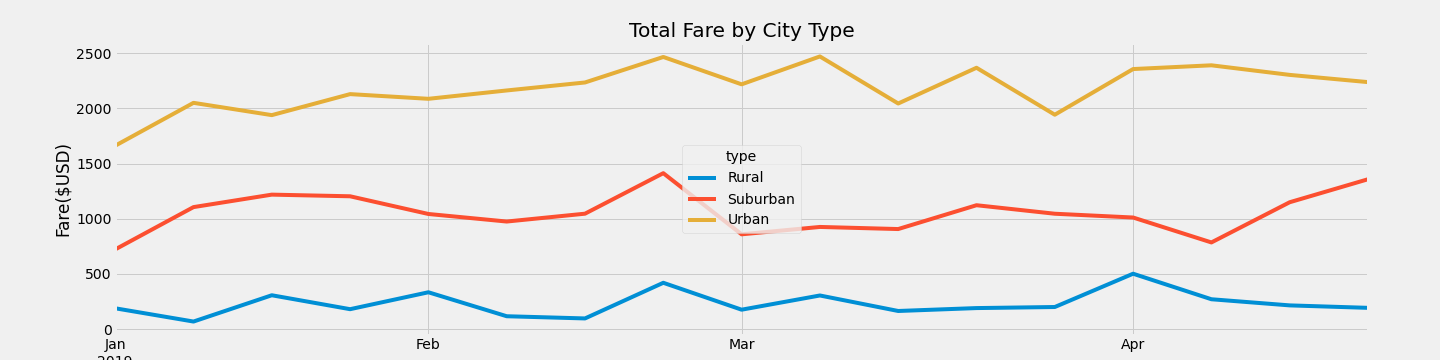
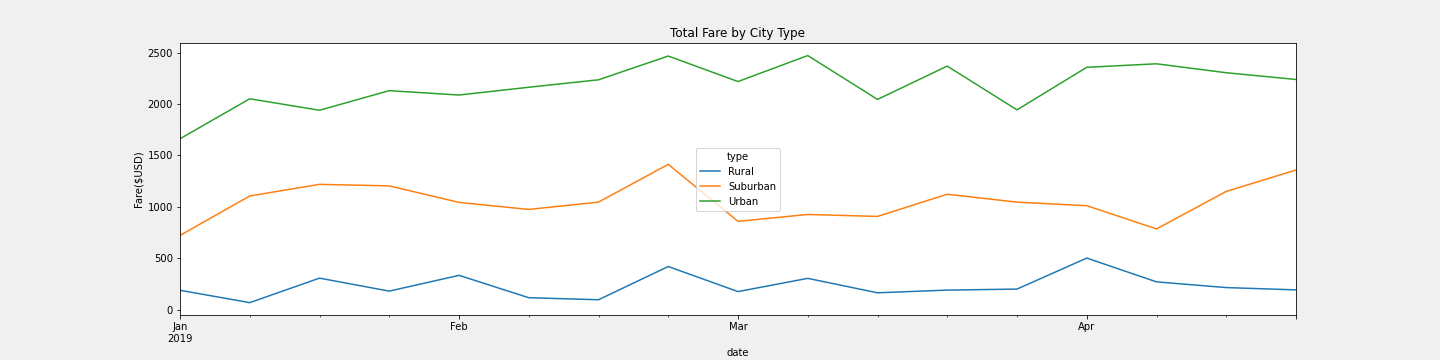
final updates to script and images

diff --git a/PyBer_Writeup.md b/PyBer_Writeup.md
@@ -1,0 +1,22 @@
+# PyBer_Matplotlib_Python - Module 5 - Challenge
+
+## Overview of Project
+
+The PyBer Analysis uses Python, Pandas, and Matplotlib to combine dataframes, perform calculations and analyses, and visualize the results with an all-encompassing line graph. 
+
+### Purpose
+
+Pyber is a ride sharing app with customers and services in Urban, Suburban, and Rural cities. It is our job to combine all this data and summarize it for the company's decision makers. This line graph will show cumulative fares by city type for Jan-Apr 2019.
+
+### Results
+
+The data was captured in two different files, total drivers by city, and individual rides. These files needed to be merged into one dataframe and processed by the groupby function in order to be summarized by city type. Once the data was merged metrics such as total rides, total drivers, total fares, average fare per ride, and average fare per driver were summarized by city type.
+(insert pyber_summary_df here)
+
+*There is a statement summarizing 3 business recommendations to the CEO for addressing any disparities among the city types. (4pts)
+Clearly Pyber has distinctive revenue groupings based on city type. Pyber collects most of their revenue in Urban cities, next Suburban cities, and least revenue in rural cities. It is not clear from this chart if more revenue could be generated by increasing drivers in suburban or rural cities.
+(insert Total_Fare_by_City_Type here)  
+
+Web Link: (Insert web link here)
+
+
